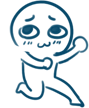
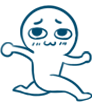
mondeo

diff --git a/mondeo/js/main.js b/mondeo/js/main.js
@@ -72,63 +72,63 @@
         /**
          * 获取网页评论
          */
-        //http.ajaxRequest({
-        //    type:'GET',
-        //    uri:'h5/getComments?flag='+flag,
-        //    success:function(json){
-        //        var comments = json.data.data;
-        //        var dom = $('#commentSwiper').find('.swiper-wrapper');
-        //        var htmlStr = '';
-        //        for(var i =0; i < comments.length; i++){
-        //            var comment = comments[i];
-        //            htmlStr += '<div class="swiper-slide swiper-no-swiping">';
-        //            htmlStr += '<p style="font-weight: bolder">' + comment.name+'&nbsp;:</p>';
-        //            htmlStr += '<p><span class="topic">#新蒙迪欧HEV#</span>'+ comment.comment +'</p>';
-        //            htmlStr += '</div>';
-        //        }
-        //        $(dom).html(htmlStr);
-        //    },
-        //    error:function(e){
-        //        if(e.responseJSON){
-        //            alert(e.responseJSON.message);
-        //        }else
-        //            alert('您已参加活动，请继续浏览后续内容!');
-        //    }
-        //});
+        http.ajaxRequest({
+            type:'GET',
+            uri:'h5/getComments?flag='+flag,
+            success:function(json){
+                var comments = json.data.data;
+                var dom = $('#commentSwiper').find('.swiper-wrapper');
+                var htmlStr = '';
+                for(var i =0; i < comments.length; i++){
+                    var comment = comments[i];
+                    htmlStr += '<div class="swiper-slide swiper-no-swiping">';
+                    htmlStr += '<p style="font-weight: bolder">' + comment.name+'&nbsp;:</p>';
+                    htmlStr += '<p><span class="topic">#新蒙迪欧HEV#</span>'+ comment.comment +'</p>';
+                    htmlStr += '</div>';
+                }
+                $(dom).html(htmlStr);
+            },
+            error:function(e){
+                if(e.responseJSON){
+                    alert(e.responseJSON.message);
+                }else
+                    alert('您已参加活动，请继续浏览后续内容!');
+            }
+        });
 
         /**
          * 初始化页面数据
          */
-        //http.ajaxRequest({type:'GET',uri:'h5/getInitDatas?flag='+flag,success:function(json){
-        //    var data = json.data;
-        //    if(data){
-        //        store.lives = data.lives;
-        //        store.audiences = data.audiences;
-        //        store.tricyclic_turns = data.tricyclic_turns;
-        //        store.tetracyclic_turns = data.tetracyclic_turns;
-        //        store.pentacyclic_turns = data.pentacyclic_turns;
-        //        store.used_gasoline = data.used_gasoline;
-        //        store.used_gasonline_tera  = data.used_gasonline_tera;
-        //        store.used_gasonline_penta = data.used_gasonline_penta;
-        //        store.used_time_tri = data.used_time_tri;
-        //        store.support = data.support;
-        //        store.nonsupport = data.nonsupport;
-        //
-        //        $('#lives').html(store.lives);
-        //        $('#audiences').html(store.audiences);
-        //
-        //        $('#tricyclic_turns').html(store.tricyclic_turns + '圈');
-        //        $('#tetracyclic_turns').html(store.tetracyclic_turns + '圈');
-        //        $('#pentacyclic_turns').html(store.pentacyclic_turns + '圈');
-        //
-        //        $('#used_gasoline').html(store.used_gasoline + 'L');
-        //        $('#used_gasonline_tera').html(store.used_gasonline_tera + 'L');
-        //        $('#used_gasonline_penta').html(store.used_gasonline_penta + 'L');
-        //
-        //        $('#support-num').html(store.support);
-        //        $('#nonsupport-num').html(store.nonsupport);
-        //    }
-        //}});
+        http.ajaxRequest({type:'GET',uri:'h5/getInitDatas?flag='+flag,success:function(json){
+            var data = json.data;
+            if(data){
+                store.lives = data.lives;
+                store.audiences = data.audiences;
+                store.tricyclic_turns = data.tricyclic_turns;
+                store.tetracyclic_turns = data.tetracyclic_turns;
+                store.pentacyclic_turns = data.pentacyclic_turns;
+                store.used_gasoline = data.used_gasoline;
+                store.used_gasonline_tera  = data.used_gasonline_tera;
+                store.used_gasonline_penta = data.used_gasonline_penta;
+                store.used_time_tri = data.used_time_tri;
+                store.support = data.support;
+                store.nonsupport = data.nonsupport;
+
+                $('#lives').html(store.lives);
+                $('#audiences').html(store.audiences);
+
+                $('#tricyclic_turns').html(store.tricyclic_turns + '圈');
+                $('#tetracyclic_turns').html(store.tetracyclic_turns + '圈');
+                $('#pentacyclic_turns').html(store.pentacyclic_turns + '圈');
+
+                $('#used_gasoline').html(store.used_gasoline + 'L');
+                $('#used_gasonline_tera').html(store.used_gasonline_tera + 'L');
+                $('#used_gasonline_penta').html(store.used_gasonline_penta + 'L');
+
+                $('#support-num').html(store.support);
+                $('#nonsupport-num').html(store.nonsupport);
+            }
+        }});
     });
 
     /**
@@ -196,7 +196,7 @@
         //listen the channel broadcast
         socket.on('live_channel_'+flag , function(data){
             console.log(data);
-
+            data = data.props;
             store.lives = !data.lives ? store.lives :data.lives;
             store.audiences = !data.audiences ?store.audiences : data.audiences;
 
@@ -232,7 +232,7 @@
             onInit: function(swiper){
                 if(swiper.activeIndex == FIRST_PAGE){
                     swiper.lockSwipeToPrev();
-                    swiper.lockSwipeToNext();
+                    //swiper.lockSwipeToNext();
                 }
             },
             onSlideChangeStart: handlerChangeStart
@@ -294,12 +294,12 @@
                 //swiper.lockSwipeToNext();
                 break;
             case EIGHTH_PAGE:
-                $('.wantYou').addClass('animated delay_1s zoomIn_quick').one(animationEnd,function(){
-                    $(this).removeClass('animated delay_1s zoomIn_quick');
+                $('.wantYou').addClass('animated zoomIn_quick').one(animationEnd,function(){
+                    $(this).removeClass('animated zoomIn_quick');
                     startPulse();
                 });
-                $('.eighth-page .banner').addClass('animated delay_1-5s fadeIn').one(animationEnd,function(){
-                    $(this).removeClass('animated delay_3-5s fadeIn');});
+                $('.eighth-page .banner').addClass('animated delay_h1s fadeIn').one(animationEnd,function(){
+                    $(this).removeClass('animated delay_h1s fadeIn');});
                 //swiper.lockSwipeToPrev();
                 //swiper.lockSwipeToNext();
                 break;
@@ -522,26 +522,26 @@
 
     function secondPageAni(){
         $('#olderDriver').addClass('animated slideInLeft').one(animationEnd,function(){
-            $(this).removeClass('animated slideInLeft');
-        });
+            $(this).removeClass('animated slideInLeft');});
         $('#olderDriverAside').addClass('animated delay_h1s fadeIn').one(animationEnd,function(){
-            $(this).removeClass('animated delay_h1s fadeIn');
-        });
+            $(this).removeClass('animated delay_h1s fadeIn');});
         $('.p2-hi').addClass('animated delay_1s bounceIn').one(animationEnd,function(){
-            $(this).removeClass('animated delay_1s bounceIn');
-        });
+            $(this).removeClass('animated delay_1s bounceIn');});
         $('#youngAside').addClass('animated delay_1-5s fadeIn').one(animationEnd,function(){
-            $(this).removeClass('animated delay_1-5s fadeIn');
-        });
+            $(this).removeClass('animated delay_1-5s fadeIn');});
     }
 
     function thirdPageAni(){
-        $('.explain .car').addClass('animated carDisappearRight').one(animationEnd,function(){
-            $(this).removeClass('animated carDisappearRight');});
+        $('.third-page  .request').addClass('animated bounceIn').one(animationEnd,function(){
+            $(this).removeClass('animated bounceIn');});
         $('.third-page .book').addClass('animated delay_h1s bookRotateInLeft').one(animationEnd,function(){
             $(this).removeClass('animated delay_h1s bookRotateInLeft');});
-        $('.third-page  .request').addClass('animated delay_1-5s bounceIn').one(animationEnd,function(){
-            $(this).removeClass('animated delay_1-5s bounceIn');});
+        $('.explain').addClass('animated delay_1s fadeIn').one(animationEnd,function(){
+            $(this).removeClass('animated delay_1s fadeIn');
+        });
+        $('.explain .car').addClass('animated delay_2s carDisappearRight').one(animationEnd,function(){
+            $(this).removeClass('animated delay_2s carDisappearRight');});
+
     }
 
     function fourthPageAni(){
@@ -552,16 +552,16 @@
         $('.left-dialogue').addClass('animated delay_h1s bounceIn').one(animationEnd,function(){
             $(this).removeClass('animated delay_h1s bounceIn');
         });
-        $('.right-dialogue').addClass('animated delay_1-5s bounceIn').one(animationEnd,function(){
-            $(this).removeClass('animated delay_1-5s bounceIn');
+        $('.right-dialogue').addClass('animated delay_1s bounceIn').one(animationEnd,function(){
+            $(this).removeClass('animated delay_1s bounceIn');
         });
 
-        $('.fourth-page .banner').addClass('animated delay_2s fadeIn').one(animationEnd,function(){
-            $(this).removeClass('animated delay_2s fadeIn');
+        $('.fourth-page .banner').addClass('animated delay_1-5s fadeIn').one(animationEnd,function(){
+            $(this).removeClass('animated delay_1-5s fadeIn');
         });
 
-        $('#p4-car').addClass('animated delay_2-5s fadeInLeft').one(animationEnd,function(){
-            $(this).removeClass('animated delay_2-5s fadeInLeft');
+        $('#p4-car').addClass('animated delay_2s fadeInLeft').one(animationEnd,function(){
+            $(this).removeClass('animated delay_2s fadeInLeft');
         });
 
     }

diff --git a/mondeo/index.html b/mondeo/index.html
@@ -71,7 +71,7 @@
         <a class="close" href="javascript:void(0);"></a>
         <div style="width: 0;height: .15rem;"></div>
         <div class="attitude">
-            <img src="images/img-s-p-2.gif">
+            <img src="images/gif-pop-submit.gif">
         </div>
         <form id="selectForm">
             <div><span>我想说</span><textarea name="comment"></textarea></div>
@@ -86,7 +86,7 @@
 <div class="pop pop-rule" style="display: none;">
     <div class="pop-content">
         <div class="pop-title">
-          <img src="images/img-s-p-9.gif">
+          <img src="images/gif-pop-rule.gif">
         </div>
         <a class="close" href="javascript:void(0);"></a>
         <div id="wrapper" class="pop-detail">
@@ -134,7 +134,7 @@
             <div class="page first-page">
                 <img class="title" src="images/temp/img-title.png">
                 <img class="slide" src="images/temp/img-slide.png">
-                <img class="superman" src="images/temp/superman.gif">
+                <img class="superman" src="images/superman-p1.gif">
                 <div class="aside">
                     <img id="aside-1" src="images/temp/img-aside-1.png">
                     <img id="aside-2" src="images/temp/img-aside-2.png">
@@ -160,11 +160,11 @@
                             <span>High起来，去四环！</span><br>
                             <span>起飞咯！五环哈哈哈~</span>
                         </p>
-                        <img id="olderDriver" src="images/img-s-p-7.gif">
+                        <img id="olderDriver" src="images/gif-p2-1.gif">
                     </div>
                     <div>
                         <div class="p2-hi">
-                            <img id="hi" src="images/img-hi.png"><img id="young" src="images/img-s-p-8.gif">
+                            <img id="hi" src="images/img-hi.png"><img id="young" src="images/gif-p2-2.gif">
                         </div>
                         <p id="youngAside">
                             <span>老司机，</span><br>
@@ -183,7 +183,7 @@
                 <img class="title" src="images/temp/img-title.png">
                 <img class="topic-banner" src="images/img-p3-banner.png">
                 <div class="request">
-                    <img src="images/img-s-p-6.gif">
+                    <img src="images/gif-p3.gif">
                 </div>
                 <div class="book"></div>
                 <div class="explain">
@@ -225,7 +225,7 @@
                     <img class="introduce" src="images/img-p5-w1.png"><br>
                     <img class="small-people-1" src="images/img-s-p-3.png"><br>
                     <img class="callUpon" src="images/img-p5-w2.png"><br>
-                    <img class="small-people-2" src="images/img-s-p-5.gif">
+                    <img class="small-people-2" src="images/gif-p5.gif">
                 </div>
                 <img class="superman" src="images/temp/superman.gif">
                 <img class="bottom-line" src="images/temp/img-bottom.png">
@@ -250,7 +250,7 @@
                 <img class="title" src="images/temp/img-title.png">
                 <div class="banner">
                     <img id="p7-w" src="images/img-p7-w1.png">
-                    <img id="p7-s-p" src="images/img-s-p-3.gif">
+                    <img id="p7-s-p" src="images/gif-pop-submit.gif">
                 </div>
                 <div class="vs">
                     <img id="leftHand" src="images/img-left-hand.png">
@@ -317,7 +317,7 @@
                 <img class="title" src="images/temp/img-title.png">
                 <div class="banner">
                     <img src="images/img-p9-w.png">
-                    <img src="images/img-s-p-4.gif">
+                    <img src="images/gif-live.gif">
                 </div>
                 <div class="liveData">
                     <span>人气数 ：</span><span id="lives" style="margin-right: 20px;">123232</span><span class="d"></span><span style="margin-left: 20px;">在线人数 ：</span><span id="audiences">31231231</span>

diff --git a/mondeo/css/main.css b/mondeo/css/main.css
@@ -316,8 +316,8 @@ animation: smallCarAni .6s step-start infinite;
 
 .pop-submit > div { height: 7.56rem; background: url(../images/bg-submit.png) center no-repeat;  background-size: cover; }
 .pop-submit > div .attitude {position: relative; width: 3.02rem; height:2.15rem; margin:0 auto; padding-top: .2rem;
-background: url("../images/img-pop-support.png") left top no-repeat; background-size: 100% 1.53rem; }
-.pop-submit > div .attitude > img { position: absolute; bottom:0; right: -.2rem; width: .9rem; }
+background: url("../images/img-pop-support.png") left top no-repeat; background-size: 2.36rem 1.53rem; }
+.pop-submit > div .attitude > img { position: absolute; bottom:0; right: .3rem; width: .9rem; }
 #selectForm { width:4.3rem; margin: 0 auto; }
 #selectForm > div { width: 100%; overflow: hidden; }
 #selectForm > div > span { float: left; color: #07496a; font-size: .22rem; line-height: .62rem; }
@@ -420,9 +420,9 @@ background-size: 100% 100%; }
 
 .first-page .superman{
     position: absolute;
-    top: 2.7rem;
-    left: .9rem;
-    width: 5rem;
+    top: 3.5rem;
+    left: 2rem;
+    width: 2.74rem;
 }
 .first-page .older{
     position: absolute;
@@ -623,7 +623,7 @@ background: url("../images/img-request.png") center no-repeat; background-size: 
  10.0 ninth-page
 *****************************************************************************************************************/
 .ninth-page { background: url(../images/bg-p9.jpg) center center no-repeat;  background-size: cover;  text-align: center; }
-.ninth-page .banner {position: relative; width: 6rem; margin: 2rem auto 0 auto; }
+.ninth-page .banner {position: relative; width: 6rem; margin: 1.8rem auto 0 auto; }
 .ninth-page .banner > img:first-child { width: 100%; }
 .ninth-page .banner > img:last-child { position:absolute; top:0; right:.3rem; width: .61rem; }
 .ninth-page .liveData { position: relative;  width: 100%; margin-top: .2rem;  font-size: .22rem; color: #07496a; text-align: center; }
